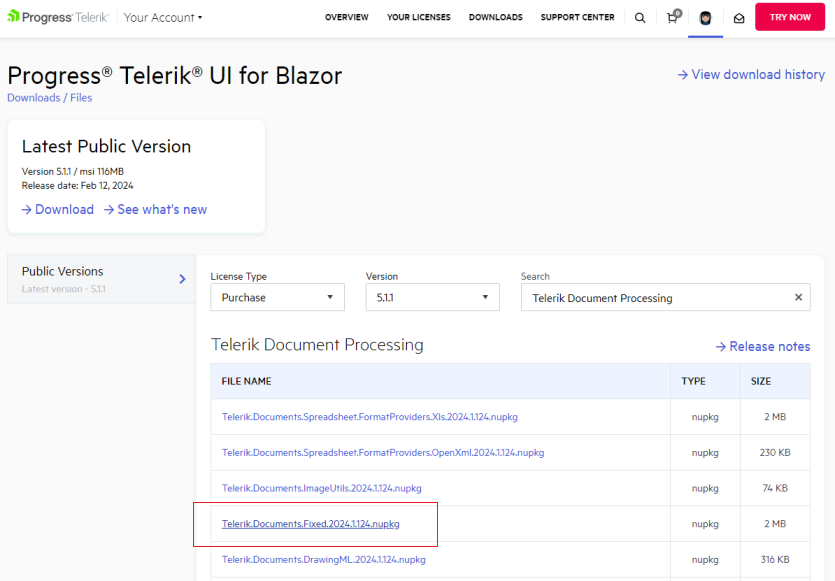
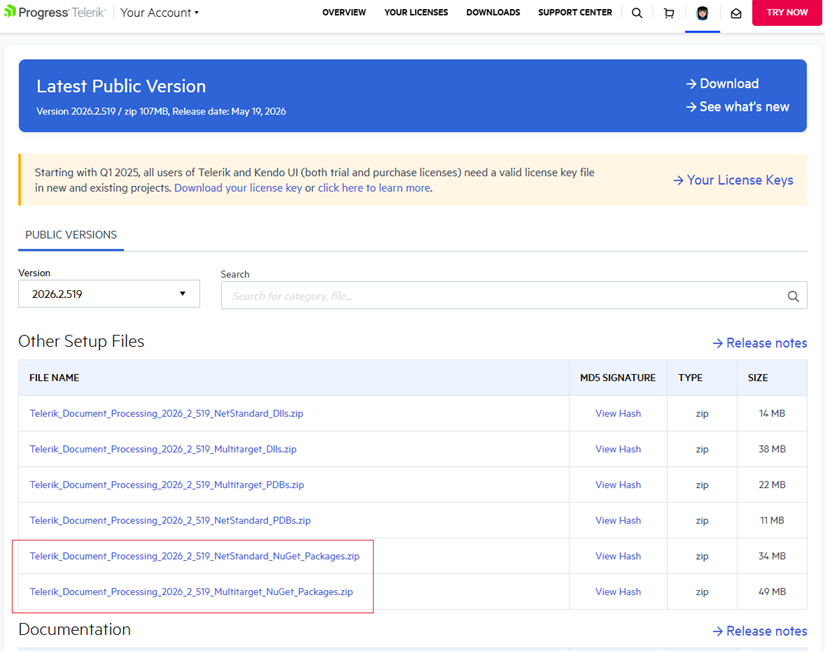
Replaced image pkgs

diff --git a/getting-started/installation/install-nuget-packages.md b/getting-started/installation/install-nuget-packages.md
@@ -14,7 +14,7 @@ This article explains how to install Telerik Document Processing with NuGet pack
 
 Use one of the following installation paths:
 
-* [Install from NuGet.org](#install-from-nugetorg)
+* [Install from NuGet.org](#install-from-nuget-org)
 * [Install from a local NuGet feed](#install-from-a-local-nuget-feed)
 * [Install from the Telerik NuGet server](#install-from-the-telerik-nuget-server)
 